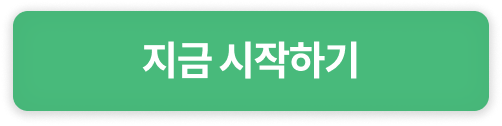
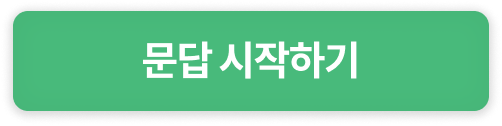
문답 홈 화면 수정 완료

Changed region(s): [[0.2689, 0.3095, 0.4482, 0.6429]]

diff --git a/src/pages/components/Footer.jsx b/src/pages/components/Footer.jsx
@@ -9,7 +9,7 @@ const Footer = () => {
             주소 : 서울특별시 용산구 청파로47길 100<br/>
             대표자명 : 김희원 소희수 임아현 김지수 배지윤<br/>
             Copyright ⓒ2022 OTR, ltd. All rights reserved<br/><br/>
-            <a target="_blank" href="https://www.facebook.com/">
+                <a target="_blank" href="https://www.facebook.com/">
                   <img className="icon" alt="facebook" src="img/facebook_ic.png" />
                 </a>
                 

diff --git a/src/pages/components/DaySevenCard.jsx b/src/pages/components/DaySevenCard.jsx
@@ -1,7 +1,7 @@
 import Card from 'react-bootstrap/Card';
 import './DayOneCard.css';
 import 'bootstrap/dist/css/bootstrap.min.css';
-import AnswerBox from './AnswerBox';
+import AnswerBox2 from './AnswerBox2';
 
 
 function DaySevenCard() {
@@ -17,7 +17,7 @@ function DaySevenCard() {
             </div>
             <br/><br/>
             <div className= "answer">
-              <AnswerBox/>
+              <AnswerBox2/>
             </div>
         </Card.Title>
       </Card.Body>

diff --git a/src/pages/CreatingPage.jsx b/src/pages/CreatingPage.jsx
@@ -1,9 +1,12 @@
 import React from 'react';
-
+import Header from './components/Header';
+import Footer from './components/Footer';
 const CreatingPage = () => {
     return (
         <div>
+            <Header/>
             <h1>작성페이지 입니다!</h1>
+            <Footer/>
         </div>
     );
 };

diff --git a/src/pages/components/AnswerBox2.jsx b/src/pages/components/AnswerBox2.jsx
@@ -1,7 +1,7 @@
 import FloatingLabel from 'react-bootstrap/FloatingLabel';
 import Form from 'react-bootstrap/Form';
 import 'bootstrap/dist/css/bootstrap.min.css';
-import './AnswerBox.css';
+import './AnswerBox2.css';
 import CompletedPopup from './CompletedPopup';
 
 

diff --git a/src/pages/components/AnswerBox1.jsx b/src/pages/components/AnswerBox1.jsx
@@ -1,7 +1,7 @@
 import FloatingLabel from 'react-bootstrap/FloatingLabel';
 import Form from 'react-bootstrap/Form';
 import 'bootstrap/dist/css/bootstrap.min.css';
-import './AnswerBox.css';
+import './AnswerBox1.css';
 import SavedPopup from './SavedPopup';
 
 
